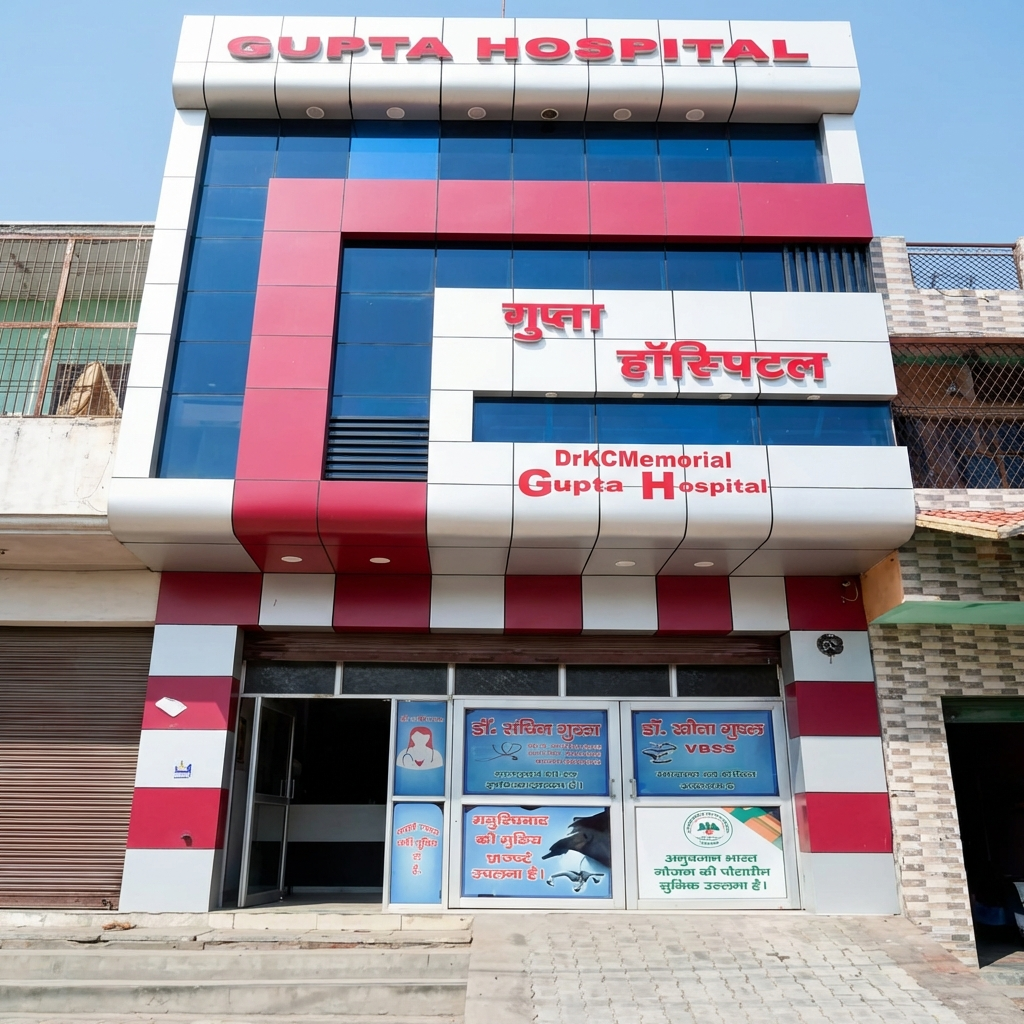
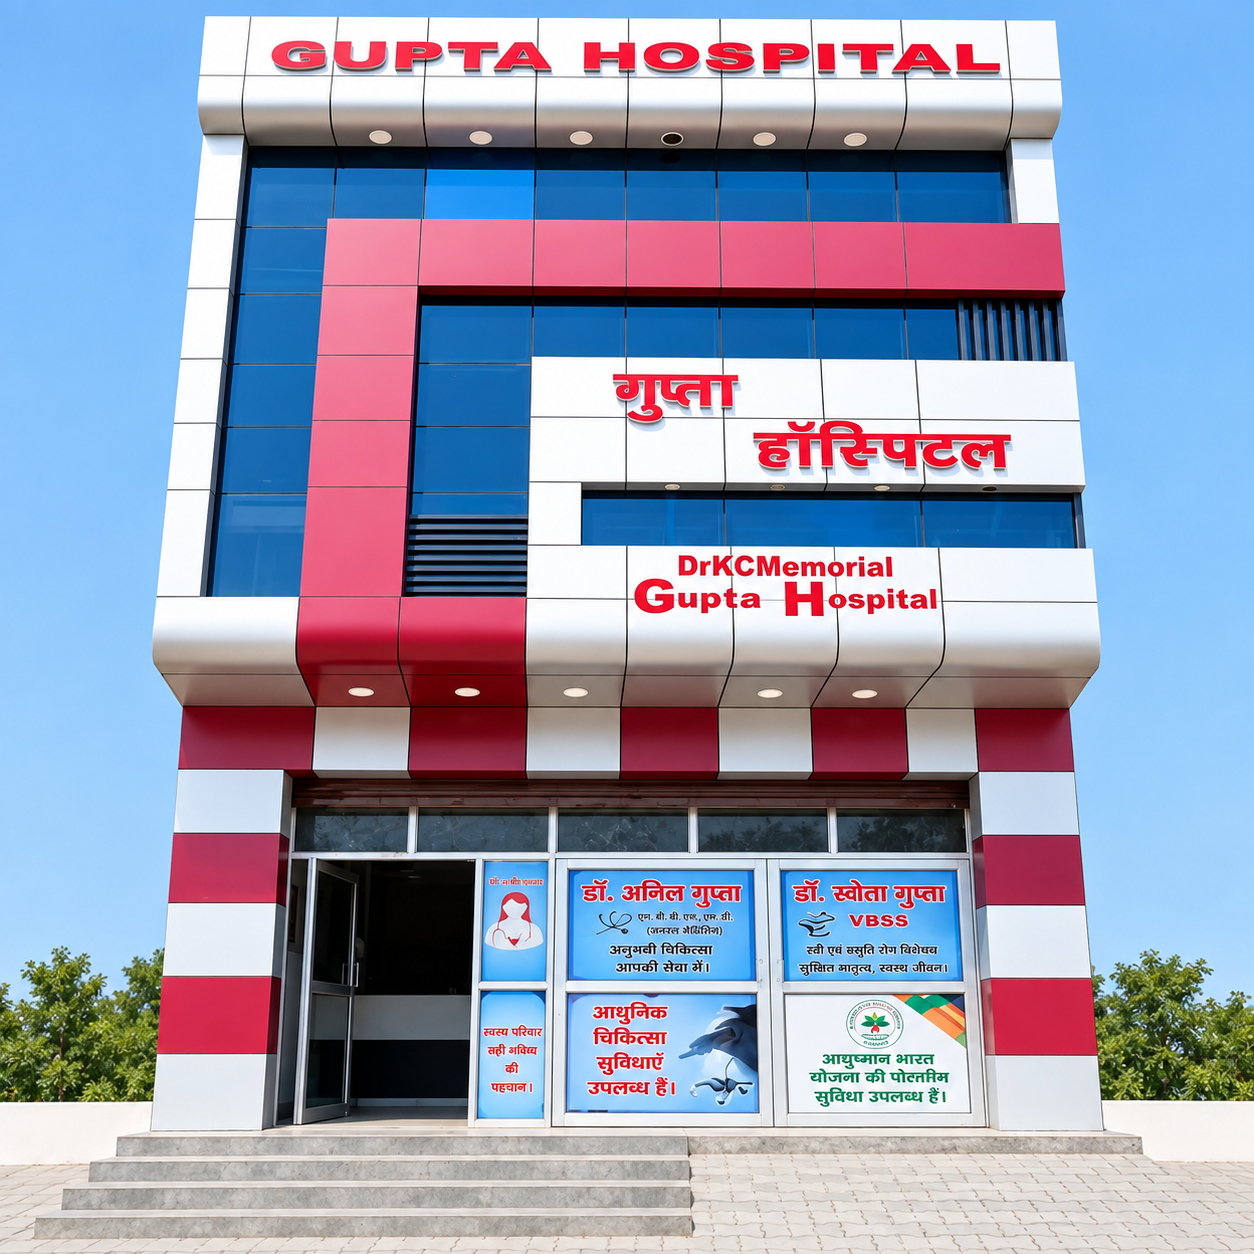
update client req

diff --git a/src/app/page.tsx b/src/app/page.tsx
@@ -85,7 +85,7 @@ export default function Home() {
         } catch {
             setChatMessages(prev => [...prev, {
                 role: "assistant",
-                content: "Sorry, having trouble. Please call +91 90390 67378."
+                content: "Sorry, having trouble. Please call +91 96390 67378."
             }]);
         } finally {
             setIsLoading(false);
@@ -467,13 +467,17 @@ export default function Home() {
                         Experienced and compassionate medical professionals
                     </p>
 
-                    <div className="grid md:grid-cols-2 lg:grid-cols-4 gap-6 items-stretch">
+                    <div className="grid md:grid-cols-2 gap-6 max-w-2xl mx-auto items-stretch">
                         {doctors.map((doc) => (
                             <div key={doc.name} className="bg-white rounded-2xl border border-gray-100 shadow-md hover:shadow-xl hover:-translate-y-1 transition-all duration-300 flex flex-col overflow-hidden">
                                 {/* Card Header */}
                                 <div className="bg-gradient-to-br from-sky-50 via-white to-teal-50 px-6 pt-6 pb-4 flex flex-col items-center border-b border-gray-100">
-                                    <div className="w-20 h-20 bg-gradient-to-br from-sky-100 to-teal-100 rounded-full flex items-center justify-center text-3xl border-4 border-white shadow-lg mb-3">
-                                        👨⚕
+                                    <div className="w-24 h-24 rounded-full overflow-hidden border-4 border-white shadow-lg mb-3">
+                                        {doc.image ? (
+                                            <Image src={doc.image} alt={doc.name} width={96} height={96} className="w-full h-full object-cover" />
+                                        ) : (
+                                            <div className="w-full h-full bg-gradient-to-br from-sky-100 to-teal-100 flex items-center justify-center text-3xl">👨⚕</div>
+                                        )}
                                     </div>
                                     {doc.tag ? (
                                         <span className="inline-flex items-center gap-1 px-3 py-0.5 bg-gradient-to-r from-amber-400 to-orange-400 text-white text-[11px] font-bold rounded-full shadow-sm mb-2">
@@ -656,24 +660,70 @@ export default function Home() {
                         </p>
                     </div>
 
-                    {/* Ayushman Bharat Card - Government Scheme */}
-                    <div className="bg-gradient-to-r from-amber-400 to-orange-500 rounded-3xl p-6 md:p-8 shadow-2xl border border-amber-300/50 flex flex-col md:flex-row items-center gap-6">
-                        <div className="flex-shrink-0 w-20 h-20 bg-white/20 rounded-2xl flex items-center justify-center text-5xl shadow-inner">
-                            🏛
-                        </div>
-                        <div className="text-white text-center md:text-left flex-1">
-                            <div className="inline-flex items-center gap-1.5 px-3 py-1 bg-white/25 rounded-full text-xs font-bold uppercase tracking-wider mb-2">
-                                🇮🇳 Government Scheme
+                    {/* Ayushman Bharat Card + Cashless Starburst Badge in Same Row */}
+                    <div className="flex flex-col lg:flex-row items-center justify-between gap-6">
+                        {/* Ayushman Bharat Card - Government Scheme */}
+                        <div className="flex-1 w-full bg-gradient-to-r from-amber-400 via-orange-500 to-amber-500 rounded-3xl p-6 md:p-8 shadow-2xl border border-amber-300/50 flex flex-col md:flex-row items-center gap-6">
+                            <div className="flex-shrink-0 w-16 h-16 md:w-20 md:h-20 bg-white/20 rounded-2xl flex items-center justify-center text-4xl md:text-5xl shadow-inner">
+                                🏛
                             </div>
-                            <h3 className="text-2xl md:text-3xl font-extrabold mb-1">Ayushman Bharat – PMJAY</h3>
-                            <p className="text-amber-100 text-sm md:text-base max-w-lg">
-                                We are an <strong>empaneled hospital</strong> under the Pradhan Mantri Jan Arogya Yojana (PM-JAY). Eligible families can avail up to <strong>₹5 Lakh</strong> per year in free healthcare coverage for secondary and tertiary treatments.
-                            </p>
-                            <div className="flex flex-wrap gap-3 mt-4 justify-center md:justify-start">
-                                <span className="flex items-center gap-1.5 px-3 py-1.5 bg-white/20 rounded-full text-xs font-semibold">✅ Up to ₹5 Lakh/year</span>
-                                <span className="flex items-center gap-1.5 px-3 py-1.5 bg-white/20 rounded-full text-xs font-semibold">✅ 100% Cashless</span>
-                                <span className="flex items-center gap-1.5 px-3 py-1.5 bg-white/20 rounded-full text-xs font-semibold">✅ No Premium to Pay</span>
-                                <span className="flex items-center gap-1.5 px-3 py-1.5 bg-white/20 rounded-full text-xs font-semibold">✅ 1500+ Treatments Covered</span>
+                            <div className="text-white text-center md:text-left flex-1">
+                                <div className="inline-flex items-center gap-1.5 px-3 py-1 bg-white/25 rounded-full text-xs font-bold uppercase tracking-wider mb-2">
+                                    🇮🇳 Government Scheme
+                                </div>
+                                <h3 className="text-2xl md:text-3xl font-extrabold mb-1">Ayushman Bharat – PMJAY</h3>
+                                <p className="text-amber-100 text-sm md:text-base max-w-xl leading-relaxed">
+                                    We are an <strong>empaneled hospital</strong> under PM-JAY. Eligible families can avail up to <strong>₹5 Lakh</strong>/year free healthcare coverage.
+                                </p>
+                                <div className="flex flex-wrap gap-2 md:gap-3 mt-4 justify-center md:justify-start">
+                                    <span className="flex items-center gap-1.5 px-3 py-1 bg-white/20 rounded-full text-xs font-semibold">✅ Up to ₹5 Lakh/yr</span>
+                                    <span className="flex items-center gap-1.5 px-3 py-1 bg-white/20 rounded-full text-xs font-semibold">✅ 100% Cashless</span>
+                                    <span className="flex items-center gap-1.5 px-3 py-1 bg-white/20 rounded-full text-xs font-semibold">✅ 1500+ Treatments</span>
+                                </div>
+                            </div>
+                        </div>
+
+                        {/* Attractive Starburst Badge on the Right */}
+                        <div className="flex-shrink-0 flex items-center justify-center">
+                            <div className="relative group">
+                                {/* Ambient Glow */}
+                                <div className="absolute inset-0 rounded-full bg-amber-400/30 blur-xl animate-pulse" />
+                                
+                                {/* Starburst Container */}
+                                <div
+                                    className="relative flex items-center justify-center shadow-2xl hover:scale-105 transition-transform duration-300"
+                                    style={{
+                                        clipPath: 'polygon(50% 0%, 63% 6%, 76% 2%, 82% 14%, 94% 17%, 94% 31%, 100% 40%, 96% 52%, 100% 64%, 93% 73%, 97% 85%, 85% 89%, 81% 100%, 68% 97%, 58% 100%, 50% 93%, 42% 100%, 32% 97%, 19% 100%, 15% 89%, 3% 85%, 7% 73%, 0% 64%, 4% 52%, 0% 40%, 6% 31%, 6% 17%, 18% 14%, 24% 2%, 37% 6%)',
+                                        width: '260px',
+                                        height: '260px',
+                                        background: 'linear-gradient(135deg, #0f172a 0%, #1e293b 50%, #0f172a 100%)',
+                                        padding: '4px',
+                                    }}
+                                >
+                                    {/* Inner Starburst Frame with subtle border accent */}
+                                    <div
+                                        className="w-full h-full flex flex-col items-center justify-center text-center p-6 border border-amber-400/40"
+                                        style={{
+                                            clipPath: 'polygon(50% 0%, 63% 6%, 76% 2%, 82% 14%, 94% 17%, 94% 31%, 100% 40%, 96% 52%, 100% 64%, 93% 73%, 97% 85%, 85% 89%, 81% 100%, 68% 97%, 58% 100%, 50% 93%, 42% 100%, 32% 97%, 19% 100%, 15% 89%, 3% 85%, 7% 73%, 0% 64%, 4% 52%, 0% 40%, 6% 31%, 6% 17%, 18% 14%, 24% 2%, 37% 6%)',
+                                            background: 'radial-gradient(circle at center, #1e293b 0%, #090d16 100%)',
+                                        }}
+                                    >
+                                        <span className="text-amber-400 text-xs font-bold tracking-widest uppercase mb-1">
+                                            ★ सुविधा ★
+                                        </span>
+                                        <p className="text-white font-black text-sm md:text-base leading-snug drop-shadow-md">
+                                            सभी इंश्योरेन्स<br />
+                                            एवं <span className="text-sky-300">T.P.A.</span>
+                                        </p>
+                                        <div className="w-16 h-0.5 bg-gradient-to-r from-transparent via-amber-400 to-transparent my-1.5" />
+                                        <p className="text-amber-300 font-extrabold text-xs md:text-sm tracking-wide">
+                                            की केशलैस सुविधा
+                                        </p>
+                                        <p className="text-emerald-400 font-bold text-xs uppercase tracking-wider mt-0.5">
+                                            उपलब्ध
+                                        </p>
+                                    </div>
+                                </div>
                             </div>
                         </div>
                     </div>
@@ -854,7 +904,7 @@ export default function Home() {
                                     <div className="text-xl">📞</div>
                                     <div>
                                         <h4 className="font-bold text-sm">Phone</h4>
-                                        <p className="text-gray-600 text-sm">+91 90390 67378</p>
+                                        <p className="text-gray-600 text-sm">+91 96390 67378</p>
                                     </div>
                                 </div>
                                 <div className="card !p-4 flex items-center gap-3">
@@ -1070,7 +1120,7 @@ export default function Home() {
                                                         setChatMessages(prev => [...prev, { role: "assistant", content: data.reply }]);
                                                     })
                                                     .catch(() => {
-                                                        setChatMessages(prev => [...prev, { role: "assistant", content: "Please call +91 90390 67378." }]);
+                                                        setChatMessages(prev => [...prev, { role: "assistant", content: "Please call +91 96390 67378." }]);
                                                     })
                                                     .finally(() => {
                                                         setIsLoading(false);
@@ -1166,7 +1216,7 @@ export default function Home() {
 
                 {/* Mobile Call Icon */}
                 <a
-                    href="tel:+919039067378"
+                    href="tel:+919639067378"
                     className="lg:hidden bg-sky-600 text-white w-12 h-12 rounded-full flex items-center justify-center shadow-2xl hover:scale-110 rotate-12 transition-all"
                     aria-label="Call Hospital"
                 >

diff --git a/src/lib/data.ts b/src/lib/data.ts
@@ -1,33 +1,40 @@
 export const services = [
     { image: "/images/services/general-medicine.png", title: "General Medicine", desc: "Comprehensive healthcare for adults with expert diagnosis and treatment" },
     { image: "/images/services/pediatrics.png", title: "Pediatrics", desc: "Specialized care for infants, children, and adolescents" },
-    { image: "/images/services/inhouse-pharmacy.png", title: "Inhouse Pharmacy", desc: "Fully stocked 24/7 pharmacy ensuring timely access to all critical and prescribed medicines" },
+    { image: "/images/services/gynecologist.jpg", title: "Obstetrician & Gynecologist", desc: "Expert care for women's health, pregnancy, and childbirth" },
+    { image: "/images/services/liver-elastography.jpg", title: "Liver Elastography", desc: "Non-invasive liver stiffness assessment for early detection of fibrosis and cirrhosis" },
+    { image: "/images/services/2d-echo.jpg", title: "2D Echo", desc: "Advanced cardiac imaging to evaluate heart structure and function" },
+    { image: "/images/services/ultrasound.png", title: "Ultrasound", desc: "Comprehensive ultrasound imaging for accurate diagnostic assessment" },
     { image: "/images/services/laboratory.png", title: "Laboratory", desc: "State-of-the-art diagnostic testing and pathology services" },
+    { image: "/images/services/operation.png", title: "Operation Theater (OT)", desc: "Fully equipped, advanced surgical suites ensuring maximum patient safety" },
     { image: "/images/services/vaccination.png", title: "Vaccination", desc: "Complete immunization programs for all age groups" },
     { image: "/images/services/health-checkup.png", title: "Health Checkup", desc: "Preventive health screenings and wellness programs" },
-    { image: "/images/services/operation.png", title: "Operation Theater (OT)", desc: "Fully equipped, advanced surgical suites ensuring maximum patient safety" },
-    { image: "/images/services/x-ray-imaging.png", title: "X-Ray Imaging", desc: "High-resolution digital X-ray services for swift and accurate diagnosis" },
-    { image: "/images/services/ultrasound.png", title: "Ultrasound (3D, 4D)", desc: "Detailed 3D/4D ultrasound imaging for comprehensive obstetrical and general health screening" },
 ];
 
 export const doctors = [
-    { name: "Late Dr. K.C. Gupta", role: "Founder" },
     {
         name: "Dr. Sachin Gupta",
         role: "Consultant Physician",
         tag: "Chairman",
         exp: "15+ years",
+        image: "/images/doctors/Dr.Sachin.jpeg",
         credentials: ["MBBS", "DEM (Medicine)", "Royal College, England (UK)", "FAGE (Mpl)", "MCCP (USA)"],
         specialty: "Specialist In: Chest, Heart, Abdominal Diseases & Diabetes",
         memberOf: "Prof. Member: American Diabetes Association",
         formerlyAt: "Formerly at: Indraprastha Apollo Hospital, New Delhi",
     },
-    { name: "Dr. Shweta Gupta (MBBS)", role: "Gynecology & Obstetrics", exp: "8+ years", specialty: "Infertility Specialist" },
-    { name: "Dr. Gajal Gupta (MBBS, MD)", role: "Consultant Psychiatrist", exp: "5+ years" },
+    {
+        name: "Dr. Shweta Gupta",
+        role: "Gynecology & Obstetrics",
+        exp: "8+ years",
+        image: "/images/doctors/Dr. Shweta Gupta.jpeg",
+        credentials: ["MBBS"],
+        specialty: "Infertility Specialist",
+    },
 ];
 
 export const galleryPhotos = [
-    { src: "/images/gallery/gallery-1.png", label: "Hospital Building" },
+    { src: "/images/About.PNG", label: "Hospital Building" },
     { src: "/images/gallery/Gallery-2.png", label: "Laboratory" },
     { src: "/images/gallery/gallery-3.png", label: "Reception Desk" },
     { src: "/images/gallery/Gallery-4.png", label: "Consultation Room" },

diff --git a/src/app/api/chat/route.ts b/src/app/api/chat/route.ts
@@ -4,11 +4,11 @@ const MODEL = "gemma-3-4b-it";
 
 // Shorter context for faster processing
 const HOSPITAL_CONTEXT = `You are an AI assistant for Dr. K.C. Memorial Gupta Hospital, Gajraula, UP, India.
-KEY INFO: 30+ beds, 24/7 Emergency, Phone: +91 90390 67378. TPA Helpdesk: +91 8954155336.
+KEY INFO: 30+ beds, 24/7 Emergency, Phone: +91 96390 67378. TPA Helpdesk: +91 8954155336.
 OPD: 10AM-6PM (Mon-Sat).
-SERVICES: General Medicine, Pediatrics, Gynae, Vaccination, Lab, Ultrasound (3D, 4D), OT.
-DOCTORS: Dr. Sachin Gupta (Physician), Dr. Shweta Gupta (Gynae), Dr. Gajal Gupta (Psychiatrist).
-RULES: Short answers (1-2 sentences). For appointments/emergencies, ask to call +91 90390 67378. Be professional and kind.`;
+SERVICES: General Medicine, Pediatrics, Obstetrician & Gynecologist, Liver Elastography, 2D Echo, Ultrasound, Lab, OT, Vaccination, Health Checkup.
+DOCTORS: Dr. Sachin Gupta (Physician, Chairman), Dr. Shweta Gupta (Gynecology & Obstetrics).
+RULES: Short answers (1-2 sentences). For appointments/emergencies, ask to call +91 96390 67378. Be professional and kind.`;
 
 export async function POST(request: NextRequest) {
     try {
@@ -58,20 +58,20 @@ export async function POST(request: NextRequest) {
         if (!response.ok) {
             console.error("Gemini API Error:", await response.text());
             return NextResponse.json(
-                { reply: "Please call +91 98765 43210 for help." },
+                { reply: "Please call +91 96390 67378 for help." },
                 { status: 500 }
             );
         }
 
         const data = await response.json();
         const reply = data.candidates?.[0]?.content?.parts?.[0]?.text ||
-            "Please call +91 98765 43210.";
+            "Please call +91 96390 67378.";
 
         return NextResponse.json({ reply });
     } catch (error) {
         console.error("Chat Error:", error);
         return NextResponse.json(
-            { reply: "Please call +91 98765 43210." },
+            { reply: "Please call +91 96390 67378." },
             { status: 500 }
         );
     }
